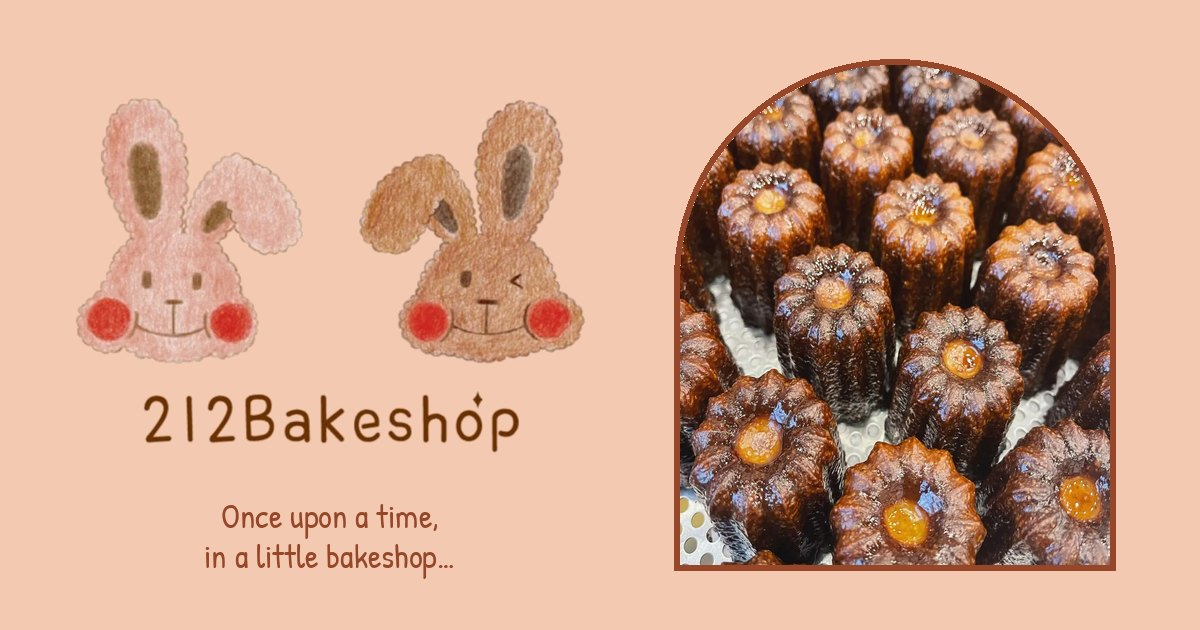
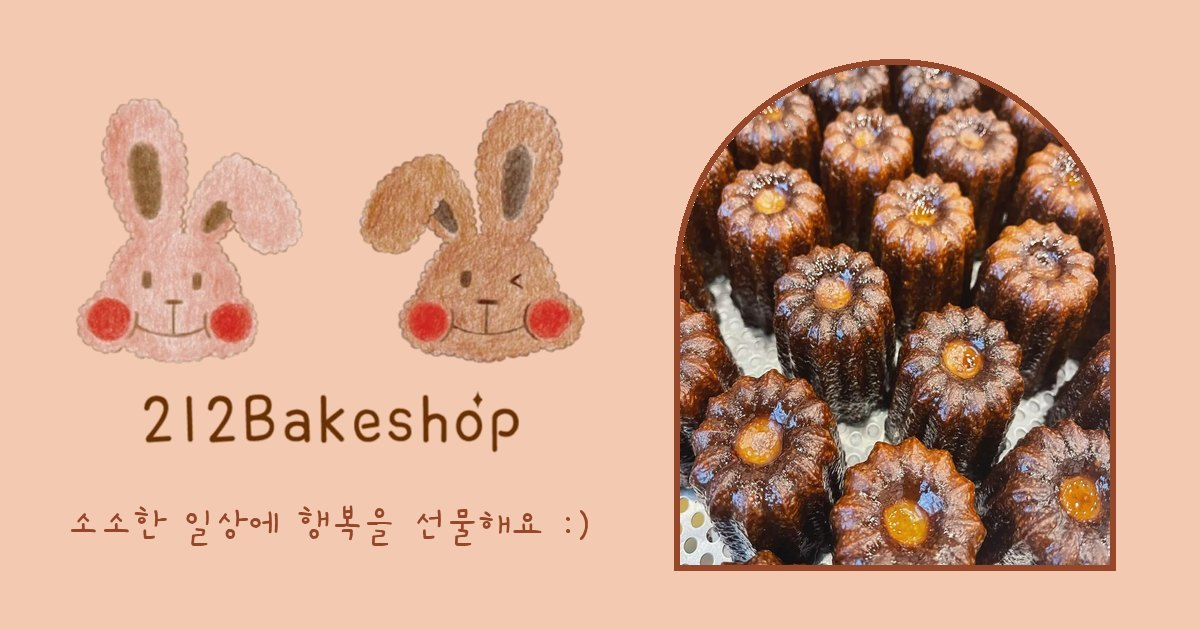
Add files via upload

Changed region(s): [[0.0617, 0.7841, 0.4933, 0.9048]]

diff --git a/index.html b/index.html
@@ -11,7 +11,7 @@
 <meta property="og:type" content="website" />
 <meta property="og:site_name" content="212Bakeshop 212베이크샵" />
 <meta property="og:title" content="212Bakeshop · 212베이크샵" />
-<meta property="og:description" content="Once upon a time, in a little bakeshop… 소소한 일상에 행복을 선물해요 :)" />
+<meta property="og:description" content="Canelé &amp; handmade desserts in Songdo. 소소한 일상에 행복을 선물해요 :)" />
 <meta property="og:url" content="https://212bakeshop-sample.lgt3232.workers.dev/" />
 <meta property="og:image" content="https://212bakeshop-sample.lgt3232.workers.dev/og-212bakeshop.jpg" />
 <meta property="og:image:width" content="1200" />
@@ -132,7 +132,6 @@ section[id]{ scroll-margin-top:64px; }
 .hero{ padding:clamp(34px,6vw,70px) 0 clamp(50px,7vw,86px); }
 .hero-grid{ display:grid; gap:34px; align-items:center; }
 .hero-logo{ width:min(92%,420px); margin:0 auto 8px; }
-.hero .eyebrow{ font-family:var(--hand); color:var(--ink); font-size:1.12rem; letter-spacing:.14em; margin:0 0 4px; }
 .hero h1{ font-family:var(--hand); font-weight:400; color:var(--brown); font-size:clamp(2.2rem,6.4vw,3.7rem); line-height:1.1; margin:0 0 16px; }
 .hero p{ margin:0 0 .5em; }
 .hero .kr-lead{ color:var(--ink); font-size:.96rem; }
@@ -154,11 +153,9 @@ section[id]{ scroll-margin-top:64px; }
 .bake h3{ font-family:var(--hand); font-weight:400; font-size:1.7rem; color:var(--brown); margin:14px 0 0; line-height:1.2; }
 .bake h3 small{ display:block; font-family:var(--body); font-weight:400; font-size:.86rem; color:var(--ink); margin-top:2px; }
 .bake p{ margin:8px auto 0; font-size:.94rem; max-width:22em; }
-.new-card{ aspect-ratio:4/5; border-radius:999px 999px 14px 14px; border:3px dashed var(--brown); background:var(--peach-2); display:grid; place-items:center; padding:26% 14% 12%; text-align:center; }
-.new-card .tag{ display:inline-block; font-family:var(--hand); font-weight:400; font-size:1.05rem; color:var(--ink); padding:0 .7em; border:1.5px solid var(--brown); border-radius:999px; margin-bottom:10px; }
-.new-card .tag::before{ content:""; display:inline-block; width:8px; height:8px; border-radius:50%; background:var(--cheek); margin-right:6px; vertical-align:.12em; }
-.new-card .quote{ font-family:var(--hand); font-size:1.6rem; line-height:1.3; color:var(--brown); }
-.new-card img{ width:64px; margin:14px auto 0; }
+.arch.new{ position:relative; }
+.arch.new .tag{ position:absolute; left:50%; bottom:12px; transform:translateX(-50%); font-family:var(--hand); font-size:1.15rem; color:var(--ink); background:var(--peach-2); padding:.05em .9em; border:1.5px solid var(--brown); border-radius:999px; }
+.arch.new .tag::before{ content:""; display:inline-block; width:8px; height:8px; border-radius:50%; background:var(--cheek); margin-right:6px; vertical-align:.12em; }
 .menu-note{ margin:34px auto 0; max-width:34em; text-align:center; font-size:.92rem; }
 .menu-note .kr{ display:block; color:var(--ink); }
 
@@ -227,7 +224,7 @@ section[id]{ scroll-margin-top:64px; }
     <a class="brand" href="#top" aria-label="212Bakeshop home"><img src="tb-bunnies.webp" alt="" width="754" height="401" /><b>212Bakeshop</b></a>
     <nav class="nav" aria-label="Main">
       <a href="#story">Story</a>
-      <a href="#menu">Bakes</a>
+      <a href="#menu">Menu</a>
       <a href="#gifts">Gifts</a>
       <a href="#popups">Pop-ups</a>
       <a href="#visit">Visit</a>
@@ -240,9 +237,8 @@ section[id]{ scroll-margin-top:64px; }
 <section class="hero" id="top">
   <div class="wrap hero-grid">
     <div class="hero-text reveal">
-      <img class="hero-logo wiggle" src="tb-logo.webp" alt="212Bakeshop logo: a pink bunny and a brown bunny with rosy cheeks" width="754" height="530" />
-      <p class="eyebrow">A LITTLE BAKESHOP IN SONGDO</p>
-      <h1>Once upon a time,<br />in a little bakeshop…</h1>
+      <img class="hero-logo wiggle" src="tb-bunnies.webp" alt="212Bakeshop bunnies: a pink bunny and a brown bunny with rosy cheeks" width="754" height="401" />
+      <h1>212 BAKESHOP</h1>
       <p>We bake handmade desserts in our shop every day with good ingredients. Little gifts of happiness for your ordinary days.</p>
       <p class="kr-lead">소소한 일상에 행복을 선물해요 :) 매장에서 매일 좋은 재료로 직접 굽는 수제 디저트</p>
       <div class="hero-cta">
@@ -263,7 +259,7 @@ section[id]{ scroll-margin-top:64px; }
     <div class="wrap story-grid">
       <figure class="arch reveal"><img loading="lazy" src="tb-canele.webp" alt="Freshly baked canelés, glossy and dark" width="720" height="720" /></figure>
       <div class="reveal">
-        <span class="chapter">Chapter I</span>
+        <span class="chapter">Our Story</span>
         <h2 id="story-h">The canelé specialists</h2>
         <p class="lead">Canelé is what we are known for: a deep caramelized crust that crackles when you bite, and a soft, custardy heart. Crisp outside, tender inside, every single batch.</p>
         <p class="lead-kr">까눌레 전문이라 겉바속촉 장인이에요. 매장에서 매일 좋은 재료로 직접 굽습니다.</p>
@@ -277,7 +273,7 @@ section[id]{ scroll-margin-top:64px; }
   <!-- ============ MENU ============ -->
   <section class="sec center" id="menu" aria-labelledby="menu-h" style="padding:clamp(60px,9vw,104px) 0">
     <div class="wrap">
-      <span class="chapter reveal">Chapter II</span>
+      <span class="chapter reveal">Menu</span>
       <h2 id="menu-h" class="reveal">Today’s little bakes</h2>
       <div class="menu-grid">
         <figure class="bake reveal">
@@ -286,15 +282,9 @@ section[id]{ scroll-margin-top:64px; }
           <p>Our specialty. A caramelized crust with a custardy heart.</p>
         </figure>
         <figure class="bake reveal">
-          <div class="new-card">
-            <div>
-              <span class="tag">New</span>
-              <p class="quote">“Crisp outside,<br />chewy within.”</p>
-              <img src="tb-canele-mark.webp" alt="" width="318" height="334" />
-            </div>
-          </div>
+          <div class="arch new"><img loading="lazy" src="tb-buttertteok.webp" alt="Golden shell-shaped butter rice cakes in paper cases with small cups of butter sauce" width="540" height="720" /><span class="tag">New</span></div>
           <h3>Butter Rice Cake<small>버터떡</small></h3>
-          <p>Washed glutinous rice flour, French Elle &amp; Vire gourmet butter, vanilla bean and nutty browned butter.</p>
+          <p>Crisp outside, chewy within. Washed glutinous rice flour, French Elle &amp; Vire gourmet butter, vanilla bean and nutty browned butter.</p>
         </figure>
         <figure class="bake reveal">
           <div class="arch"><img loading="lazy" src="tb-macaron.webp" alt="Macarons with thick yellow filling" width="720" height="720" /></div>
@@ -317,8 +307,7 @@ section[id]{ scroll-margin-top:64px; }
   <section class="sec band-pink" id="gifts" aria-labelledby="gifts-h" style="padding:clamp(60px,9vw,104px) 0">
     <div class="wrap two-grid">
       <div class="reveal">
-        <span class="chapter">Chapter III</span>
-        <h2 id="gifts-h">Tied with a ribbon</h2>
+        <h2 id="gifts-h">Gift Boxes</h2>
         <p class="lead">Gift boxes wrapped with ribbon, for birthdays, thank-yous and the holidays. Ask us in store or give us a call.</p>
         <p class="lead-kr">리본을 두른 선물 상자로 준비해요. 매장이나 전화로 문의해 주세요.</p>
         <a class="btn" href="tel:0507-1363-0554" style="margin-top:14px">Call 0507-1363-0554</a>
@@ -336,8 +325,7 @@ section[id]{ scroll-margin-top:64px; }
   <section class="sec" id="popups" aria-labelledby="popups-h" style="padding:clamp(60px,9vw,104px) 0">
     <div class="wrap two-grid flip">
       <div class="reveal">
-        <span class="chapter">Chapter IV</span>
-        <h2 id="popups-h">Sometimes, we travel</h2>
+        <h2 id="popups-h">Events &amp; Pop-ups</h2>
         <p class="lead">You may have met us at a department store pop-up. Follow our Instagram to catch the next stop.</p>
         <p class="lead-kr">백화점 팝업에서도 만나요. 다음 소식은 인스타그램에서!</p>
         <a class="link" href="https://www.instagram.com/212bakeshop/" target="_blank" rel="noopener">@212bakeshop →</a>
@@ -354,7 +342,7 @@ section[id]{ scroll-margin-top:64px; }
   <!-- ============ GALLERY ============ -->
   <section class="sec band-pink center" id="gallery" aria-labelledby="gallery-h" style="padding:clamp(60px,9vw,104px) 0">
     <div class="wrap">
-      <span class="chapter reveal">Picture Book</span>
+      <span class="chapter reveal">Gallery</span>
       <h2 id="gallery-h" class="reveal">From our oven</h2>
       <div class="gallery reveal">
         <figure><img loading="lazy" src="tb-canele3.webp" alt="Canelés with glossy golden tops" width="720" height="720" /></figure>
@@ -373,8 +361,7 @@ section[id]{ scroll-margin-top:64px; }
   <section class="sec visit" id="visit" aria-labelledby="visit-h" style="padding:clamp(60px,9vw,104px) 0">
     <div class="wrap">
       <div class="center">
-        <span class="chapter reveal">The End… for now</span>
-        <h2 id="visit-h" class="reveal">Come visit us</h2>
+        <h2 id="visit-h" class="reveal">Visit Us</h2>
       </div>
       <div class="visit-grid" style="margin-top:26px">
         <div class="reveal">

diff --git a/CHANGELOG.md b/CHANGELOG.md
@@ -1,5 +1,15 @@
 # CHANGELOG — 212Bakeshop (212베이크샵 · @212bakeshop)
 
+## v0.3 — 2026-09-30
+- 동화 문구 라벨 정리: Chapter I → **Our Story**, Chapter II → **Menu**, Picture Book → **Gallery**. Gift Boxes·Events & Pop-ups는 제목이 곧 섹션명이라 라벨 삭제(중복 방지). "The End… for now" 라벨 삭제 + 제목 "Come visit us" → **Visit Us**. 상단 메뉴 "Bakes" → **Menu**. 라벨 옆 ✦(워드마크 반짝이)는 유지.
+
+## v0.2 — 2026-09-30 (다올 수정)
+- 다올 정정: "옛날 동화"는 분위기·폰트·느낌 얘기였고 문구 컨셉으로 고수하라는 뜻 아님.
+- 히어로: "Once upon a time, in a little bakeshop…" → **"212 BAKESHOP"**, 그 위 로고 워드마크(212Bakeshop)와 "A LITTLE BAKESHOP IN SONGDO" 줄 삭제 → 토끼 그림만 두고 제목이 상호명(중복 제거). og:description·OG 이미지의 동화 문구도 교체(OG 하단 = "소소한 일상에 행복을 선물해요 :)").
+- 버터떡: 글 카드 → 다올 제공 사진(658986345, 조개 모양 버터떡 + 버터 소스 컵) tb-buttertteok.webp 540×720, 아치 액자 하단에 NEW 태그. 설명에 "Crisp outside, chewy within." 합침.
+- 섹션 제목: "Tied with a ribbon" → **Gift Boxes**, "Sometimes, we travel" → **Events & Pop-ups**.
+- tb-logo.webp 미사용 → .assetsignore.
+
 ## v0.1 — 2026-09-30 (최초 시안 · 9.9 원페이지)
 - **브리프(다올)**: 로고 이미지(486040009, 두 토끼) 색을 그대로 · 파스텔 옛날 동화 느낌 · 영어 위주 · 손글씨 느낌 폰트.
 - **색(로고 실측 그대로)**: 피치 #F3CAB1(바탕) · 핑크 토끼 #E1B4A3(교차 섹션) · 갈색 토끼 #C99474/#B97C59(장식) · 워드마크 갈색 #96472A(제목·버튼) · 귀 안쪽 #855E37 · 볼터치 #D74A39(점 장식). 파생 2색만 추가: 본문 #6A3520(워드마크 갈색을 짙게, 대비용) · 크림 #FFF4EC(갈색 위 글자).
